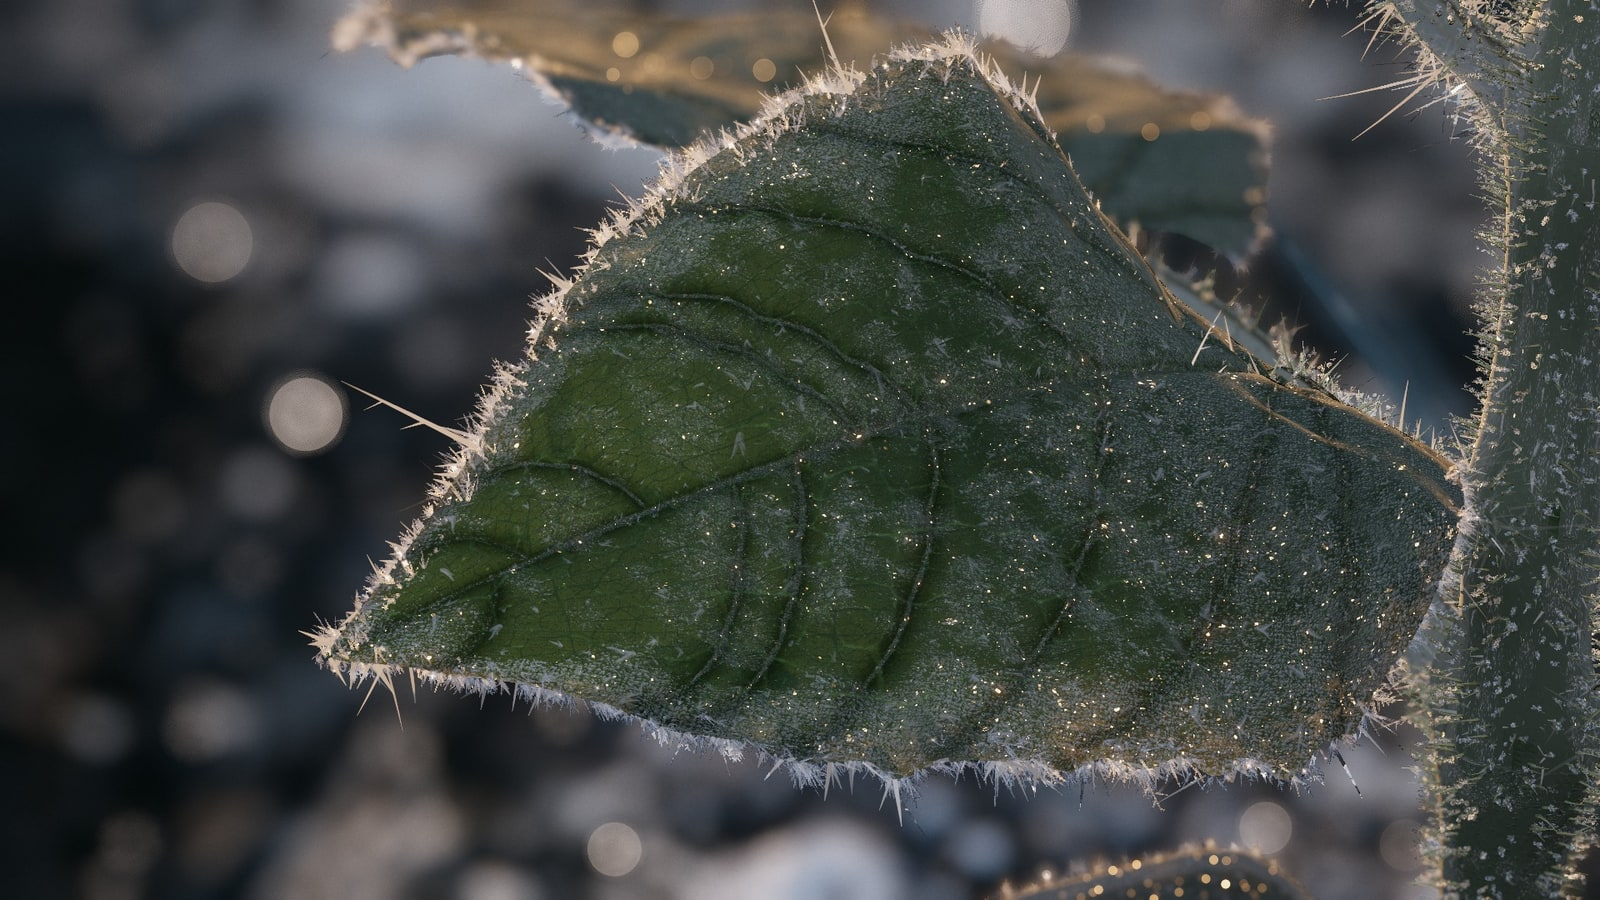
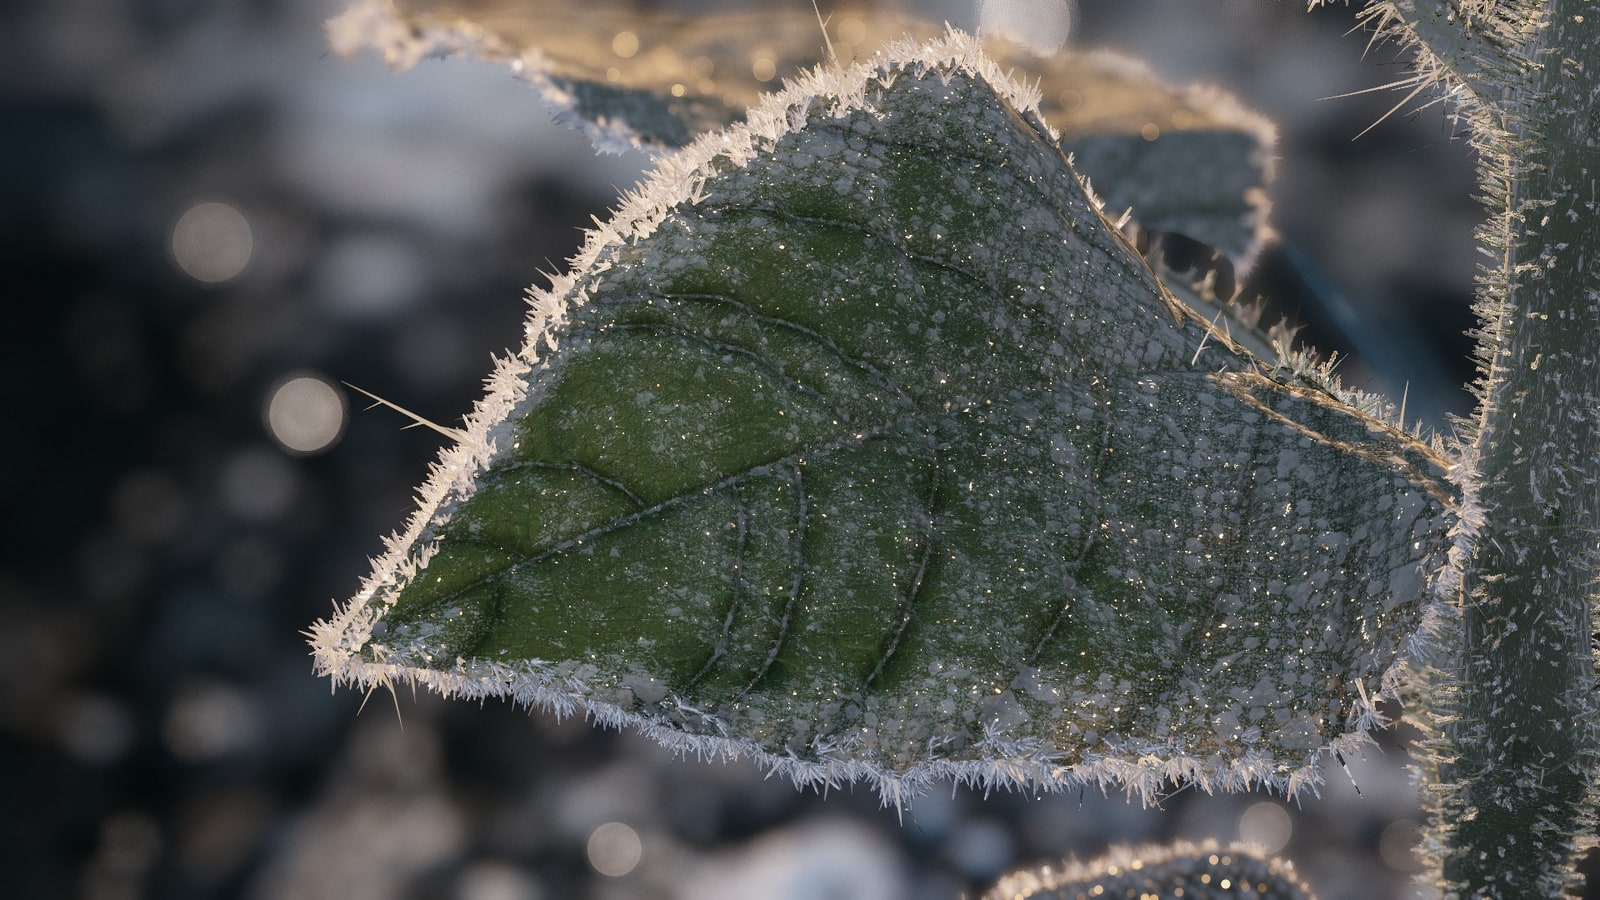
Looks of frost, 2026-11-23 11:15 UTC

diff --git a/looks/NOTES.md b/looks/NOTES.md
@@ -1,10 +1,9 @@
 # Looks of frost
 
-2026-11-23 10:50 UTC, at commit 87842922 of agent/frost.
+2026-11-23 11:15 UTC, at commit f19b16a5 of agent/frost.
 
-- `01-margin-952-at-1920-coat-of-grains-only.jpg`: margin 952 at 1920, coat of grains only
+- `01-margin-952-coat-hierarchy-and-cluster-fringe.jpg`: margin 952 coat hierarchy and cluster fringe
 - `02-margin-1003.jpg`: margin 1003
 - `03-margin-1054.jpg`: margin 1054
-- `04-tip-1106.jpg`: tip 1106
-- `05-1054-bank-front-at-100-percent.jpg`: 1054 bank front at 100 percent
-- `06-1054-midrib-at-100-percent.jpg`: 1054 midrib at 100 percent
+- `04-1054-margin-at-100-percent.jpg`: 1054 margin at 100 percent
+- `05-1054-midrib-at-100-percent.jpg`: 1054 midrib at 100 percent
